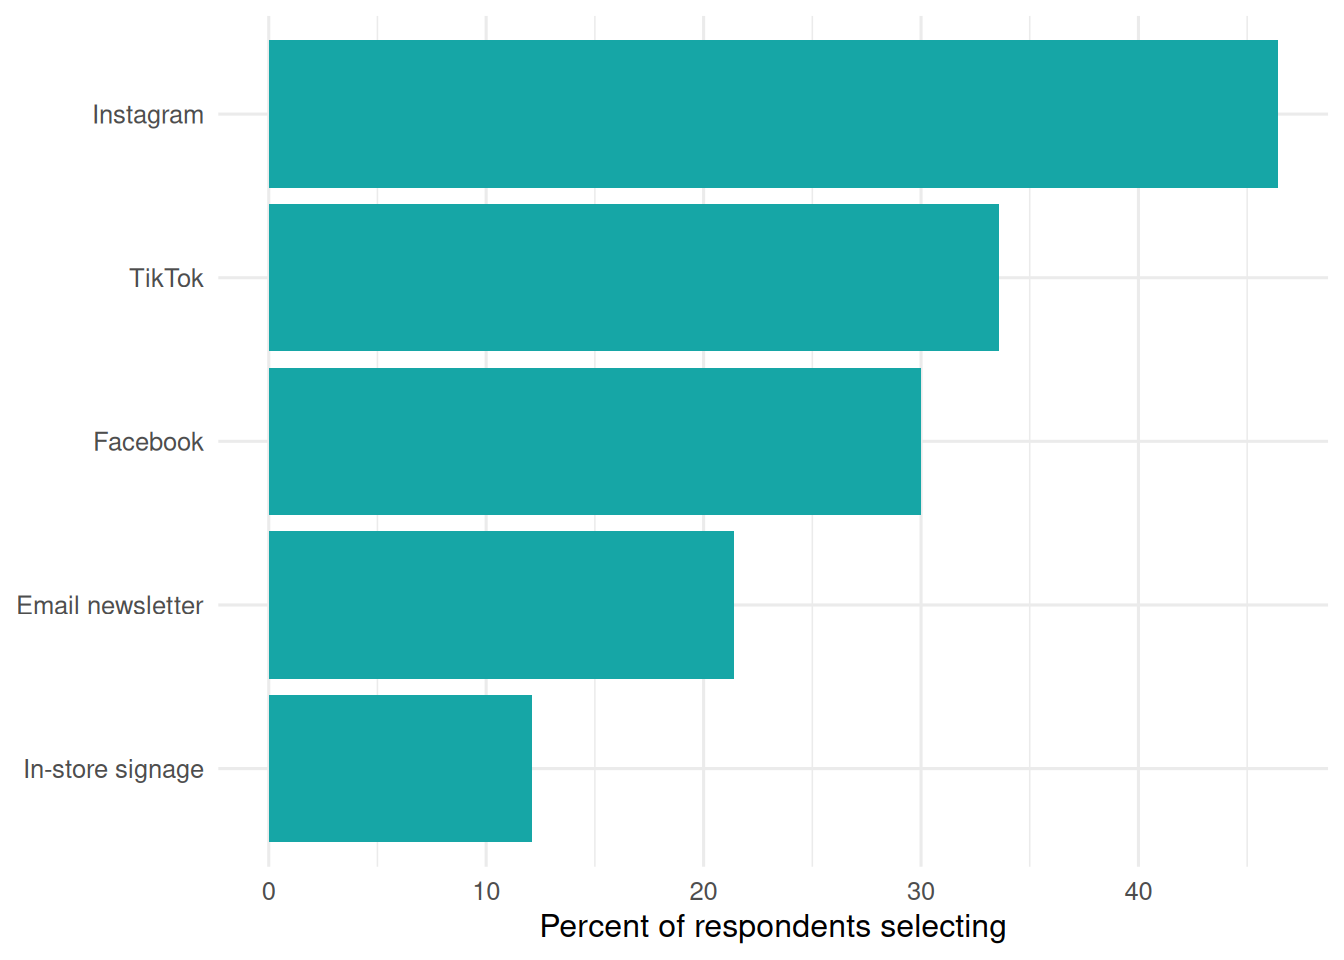
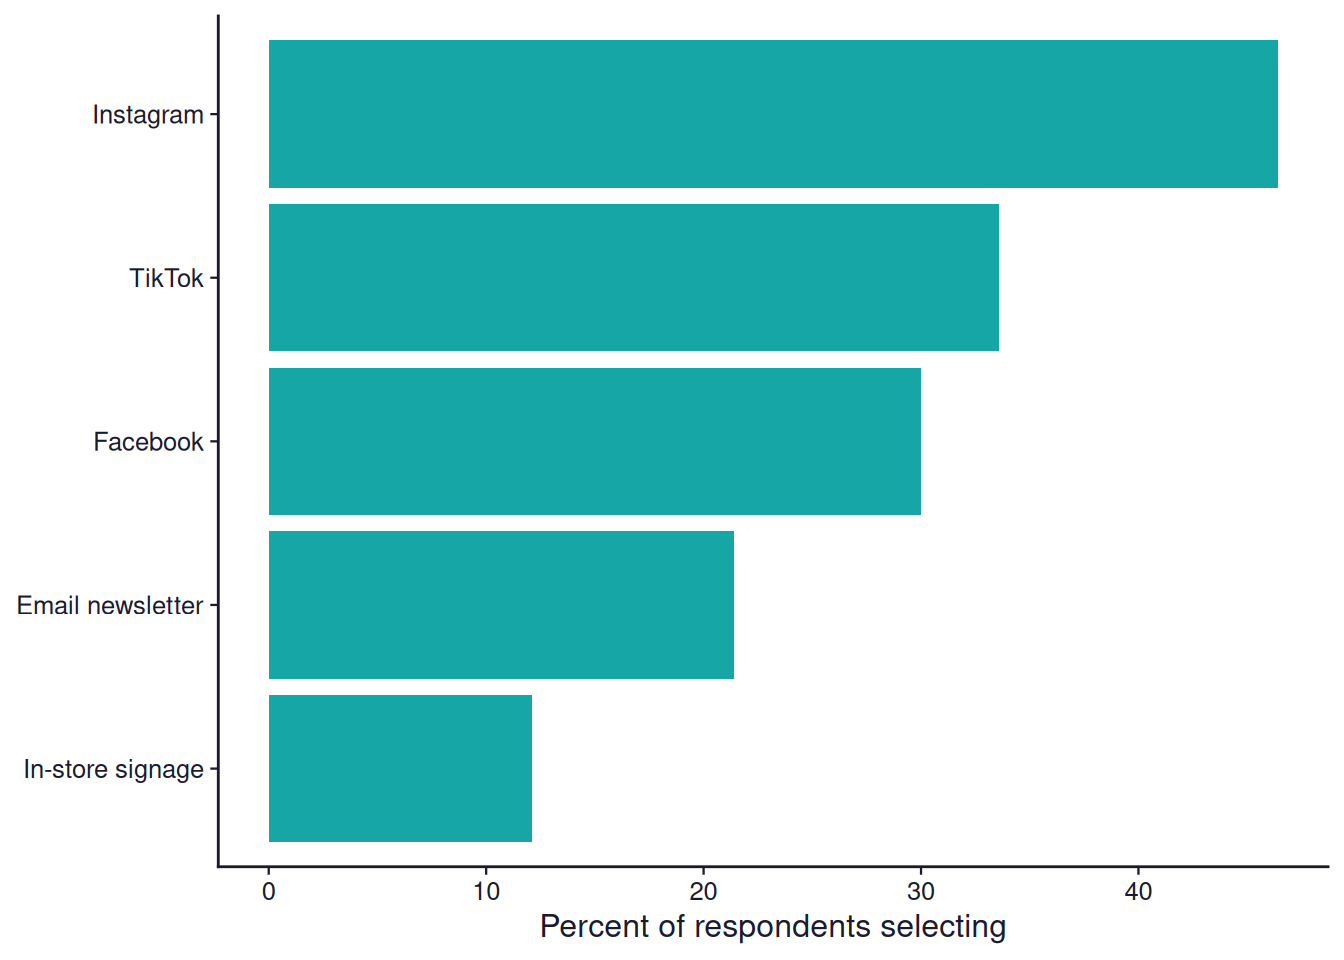
Fix post 11 summary chart to use theme_surveyframe, drop stray gridlines

diff --git a/blog/posts/11-surveyframe-multiple-choice.html b/blog/posts/11-surveyframe-multiple-choice.html
@@ -1817,7 +1817,7 @@ pre,code,pre code{white-space:pre-wrap;word-break:break-word;}
 <span id="cb8-327"><a href="#cb8-327" aria-hidden="true" tabindex="-1"></a>  <span class="fu">geom_col</span>(<span class="at">fill =</span> <span class="st">"#16A6A6"</span>) <span class="sc">+</span></span>
 <span id="cb8-328"><a href="#cb8-328" aria-hidden="true" tabindex="-1"></a>  <span class="fu">coord_flip</span>() <span class="sc">+</span></span>
 <span id="cb8-329"><a href="#cb8-329" aria-hidden="true" tabindex="-1"></a>  <span class="fu">labs</span>(<span class="at">x =</span> <span class="cn">NULL</span>, <span class="at">y =</span> <span class="st">"Percent of respondents selecting"</span>) <span class="sc">+</span></span>
-<span id="cb8-330"><a href="#cb8-330" aria-hidden="true" tabindex="-1"></a>  <span class="fu">theme_minimal</span>(<span class="at">base_size =</span> <span class="dv">12</span>)</span>
+<span id="cb8-330"><a href="#cb8-330" aria-hidden="true" tabindex="-1"></a>  <span class="fu">theme_surveyframe</span>(<span class="at">base_size =</span> <span class="dv">12</span>)</span>
 <span id="cb8-331"><a href="#cb8-331" aria-hidden="true" tabindex="-1"></a><span class="in">```</span></span>
 <span id="cb8-332"><a href="#cb8-332" aria-hidden="true" tabindex="-1"></a></span>
 <span id="cb8-333"><a href="#cb8-333" aria-hidden="true" tabindex="-1"></a>Instagram leads at <span class="in">`r summary_tbl$Percent[summary_tbl$Channel == "Instagram"]`</span>%, in-store signage trails at <span class="in">`r summary_tbl$Percent[summary_tbl$Channel == "In-store signage"]`</span>%. Cochran's Q above confirms that spread is real rather than sampling noise. Neither number replaces the other: the summary table shows the shape, the test shows whether the shape means anything.</span>

diff --git a/blog/index.html b/blog/index.html
@@ -687,7 +687,7 @@ window.Quarto = {
 
 <div class="quarto-listing quarto-listing-container-default" id="listing-listing">
 <div class="list quarto-listing-default">
[2 lines of base64/hex data omitted]
 <div class="body">
 <h3 class="no-anchor listing-title">
 <a href="../blog/posts/11-surveyframe-multiple-choice.html" class="no-external">surveyframe Field Types: Multiple Choice</a>
